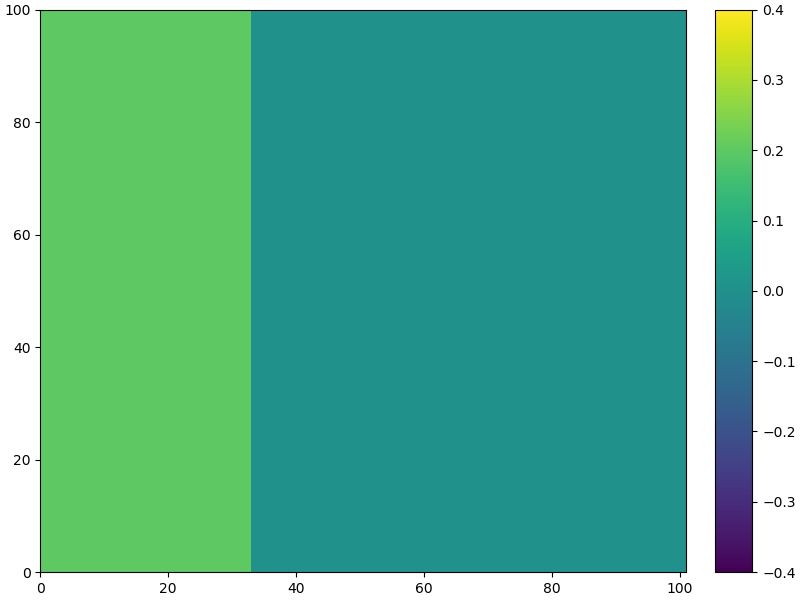
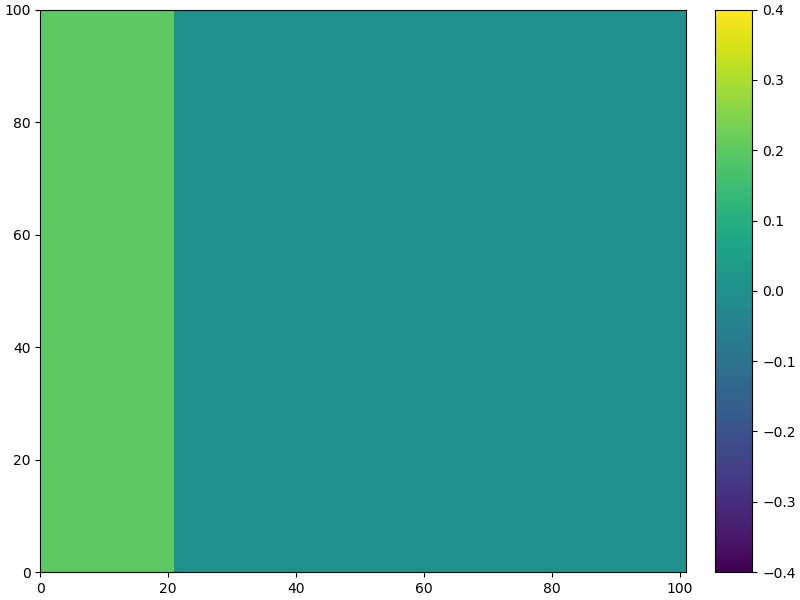
Added discontinuity test 2

Changed region(s): [[0.2188, 0.0, 0.3125, 0.96]]

diff --git a/custom_apps/test_suit/test_suit.py b/custom_apps/test_suit/test_suit.py
@@ -946,7 +946,7 @@ data = []
 for y in range(0, RESOLUTION[0] + 1):
     next = []
     for x in range(0, RESOLUTION[0] + 1):
-        if(x <= 32):
+        if(x <= 20):
             next.append([0.0, 0.2])
         else:
             next.append([0.0, 0.0])
